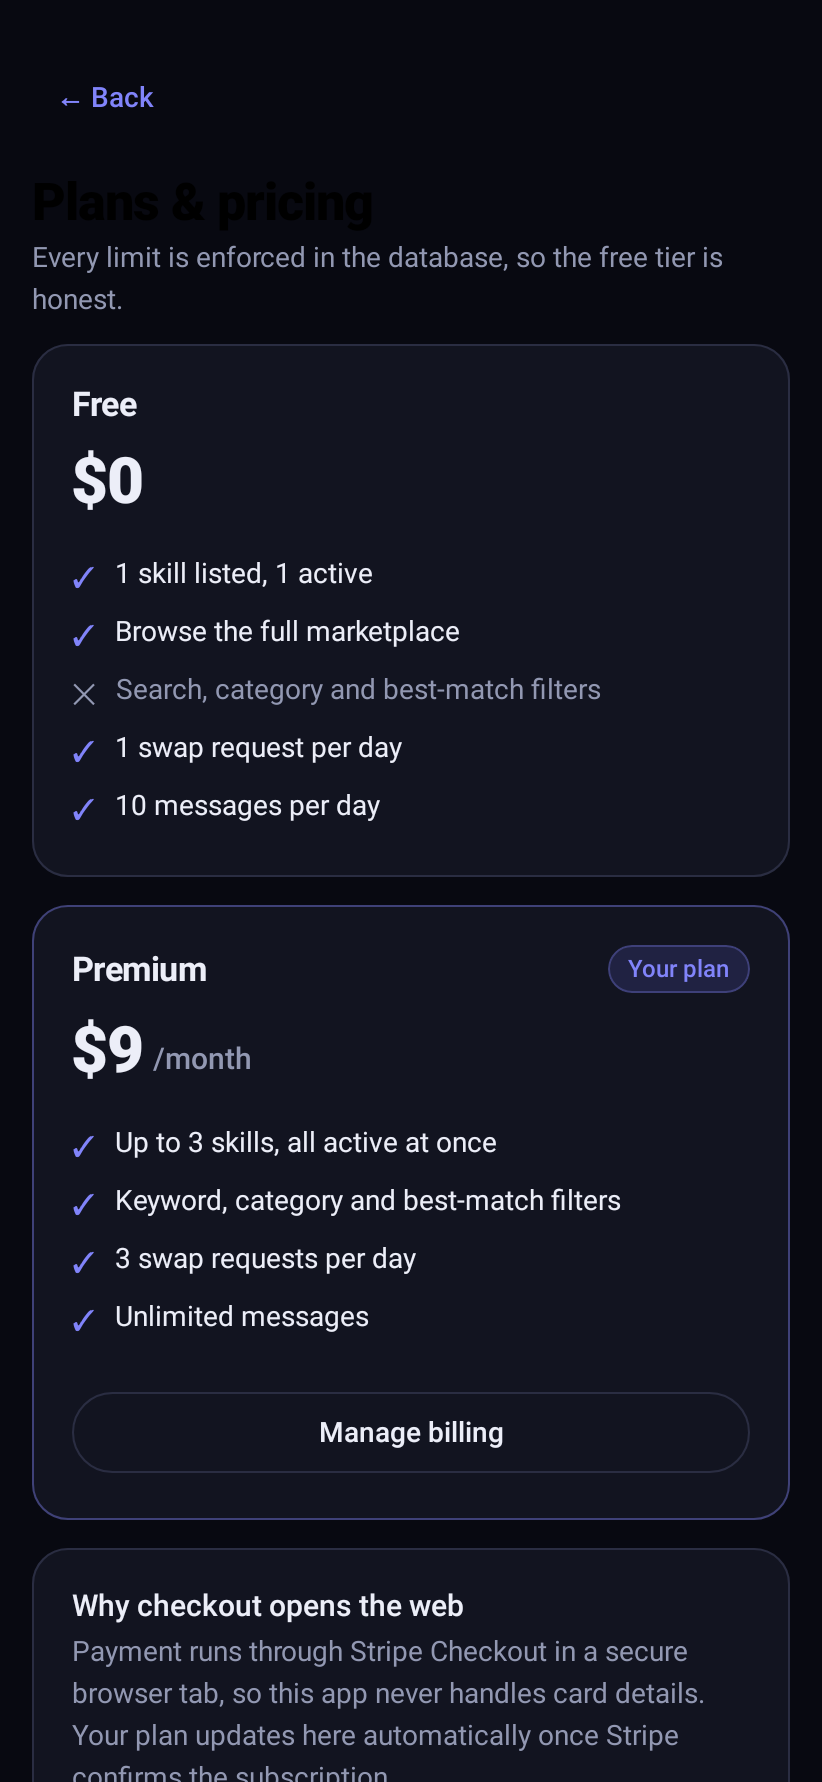
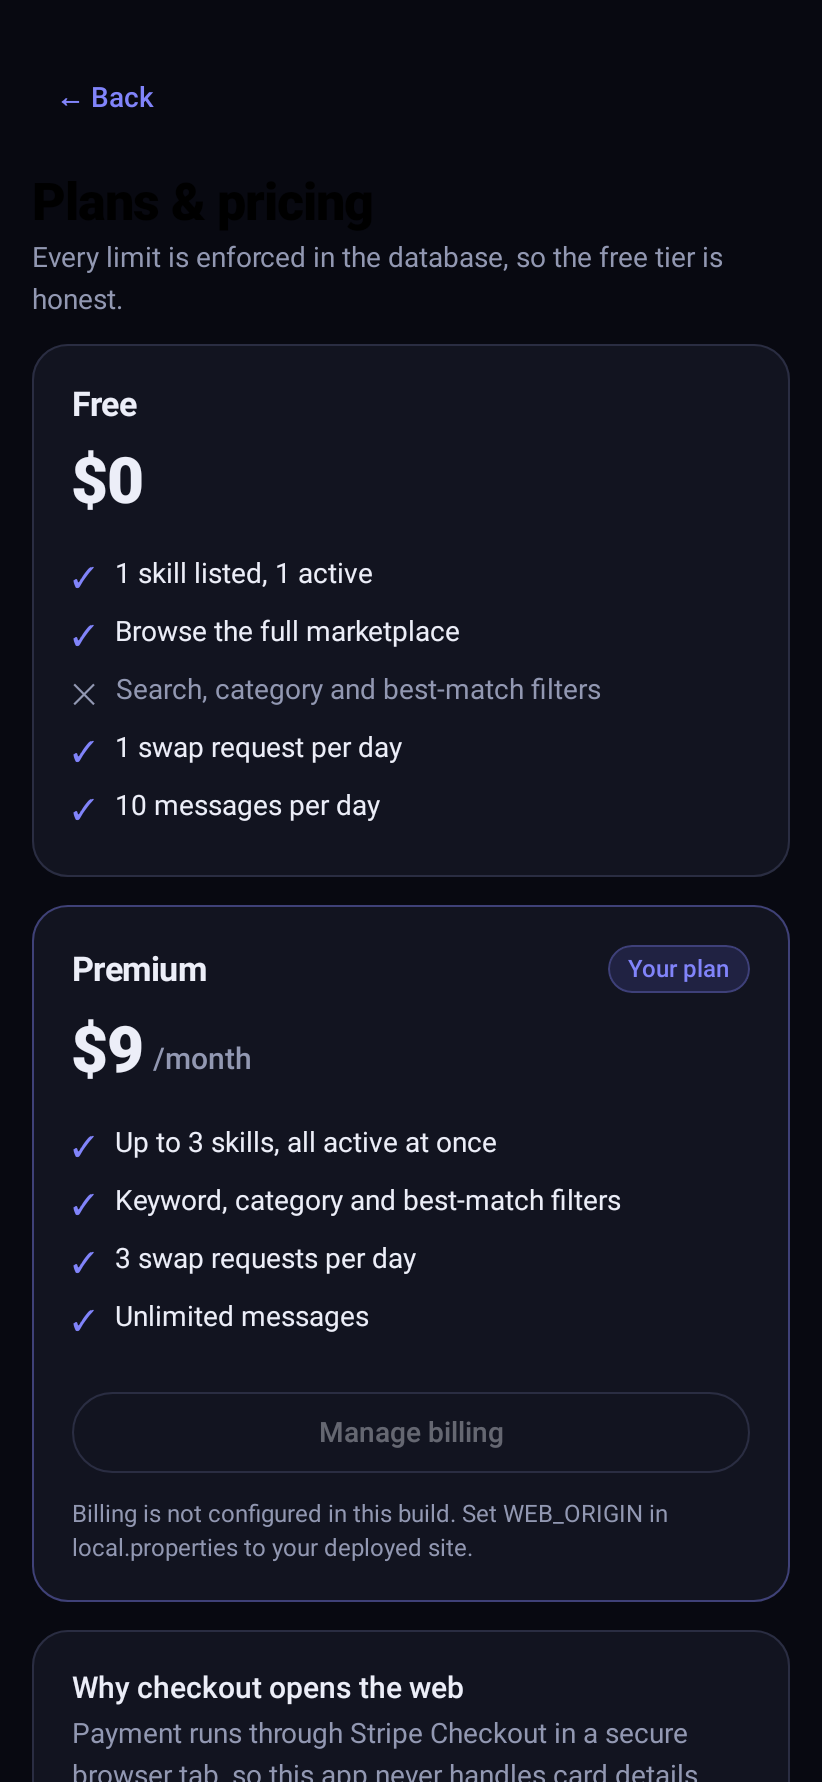
Fix Android billing pointing at a placeholder domain, and add a go-live doc
Pre-launch check found one real blocker: PricingScreen hardcoded WEB_ORIGIN to
https://skillswap.example.com, so Upgrade and Manage billing would have opened
a dead link in any shipped build.

- WEB_ORIGIN now comes from local.properties / CI via BuildConfig
- when it is blank the billing buttons are disabled and the screen explains
  why, rather than sending people to a domain that does not exist
- screenshots re-recorded to match

docs/go-live.md states plainly what has been proven by executing it (all
migrations on a clean Postgres, RLS, the plan-escalation defence, a full user
journey issued as the authenticated role, and the Stripe webhook path
simulated as the service role) and what has not been proven at all, because
there is no Docker or emulator here: Supabase Auth over HTTP, any authenticated
page rendering against live data, Realtime delivery, Stripe checkout in a
browser, and the Android app on a device.

Claude-Session: https://claude.ai/code/session_0169sZ7LFGqeepdoBCQaUnRE

Changed region(s): [[0.0912, 0.8025, 0.8516, 1.0], [0.9428, 0.8333, 0.9732, 0.9259], [0.0304, 0.8333, 0.0608, 0.9259]]

diff --git a/android/app/src/main/kotlin/com/skillswap/app/ui/screens/pricing/PricingScreen.kt b/android/app/src/main/kotlin/com/skillswap/app/ui/screens/pricing/PricingScreen.kt
@@ -13,19 +13,26 @@ import androidx.compose.ui.Modifier
 import androidx.compose.ui.graphics.toArgb
 import androidx.compose.ui.platform.LocalContext
 import androidx.compose.ui.unit.dp
+import com.skillswap.app.BuildConfig
 import com.skillswap.app.data.Profile
 import com.skillswap.app.ui.components.*
 import com.skillswap.app.ui.theme.SkillSwapTheme
 
-/** Where the hosted web app lives — Checkout and the billing portal run there. */
-private const val WEB_ORIGIN = "https://skillswap.example.com"
+/**
+ * Where the hosted web app lives — Checkout and the billing portal run there.
+ * Supplied through local.properties / CI as WEB_ORIGIN; blank means "not
+ * configured yet", and the UI says so instead of opening a dead link.
+ */
+private val WEB_ORIGIN: String get() = BuildConfig.WEB_ORIGIN
 
 @Composable
 fun PricingScreen(profile: Profile, onBack: () -> Unit) {
     val context = LocalContext.current
     val primary = MaterialTheme.colorScheme.primary.toArgb()
+    val billingConfigured = WEB_ORIGIN.isNotBlank()
 
     fun openWeb(path: String) {
+        if (!billingConfigured) return
         val intent = CustomTabsIntent.Builder()
             .setDefaultColorSchemeParams(
                 androidx.browser.customtabs.CustomTabColorSchemeParams.Builder()
@@ -94,9 +101,28 @@ fun PricingScreen(profile: Profile, onBack: () -> Unit) {
             Spacer(Modifier.height(18.dp))
 
             if (profile.isPremium) {
-                SsSecondaryButton("Manage billing", { openWeb("/profile") }, Modifier.fillMaxWidth())
+                SsSecondaryButton(
+                    "Manage billing",
+                    { openWeb("/profile") },
+                    Modifier.fillMaxWidth(),
+                    enabled = billingConfigured,
+                )
             } else {
-                SsPrimaryButton("Upgrade to Premium", { openWeb("/pricing") }, Modifier.fillMaxWidth())
+                SsPrimaryButton(
+                    "Upgrade to Premium",
+                    { openWeb("/pricing") },
+                    Modifier.fillMaxWidth(),
+                    enabled = billingConfigured,
+                )
+            }
+
+            if (!billingConfigured) {
+                Spacer(Modifier.height(10.dp))
+                Text(
+                    "Billing is not configured in this build. Set WEB_ORIGIN in local.properties to your deployed site.",
+                    style = MaterialTheme.typography.bodySmall,
+                    color = SkillSwapTheme.colors.muted,
+                )
             }
         }
 

diff --git a/docs/go-live.md b/docs/go-live.md
@@ -1,0 +1,82 @@
+# Go-live verification
+
+Read this before deploying. It separates what has actually been proven from
+what has not, so nothing is taken on trust.
+
+## Proven
+
+Verified by executing it, not by reading it.
+
+| Area | How it was proven |
+| --- | --- |
+| All 9 migrations apply to a clean Postgres 16, in order | Run from scratch locally and in CI |
+| RLS enabled on all six tables | Asserted in CI; the build fails if it is ever off |
+| A user cannot grant themselves Premium | Attempted as the `authenticated` role; rejected. Asserted in CI |
+| Full user journey at the SQL layer | Signup trigger → profile edit → list a skill → discover → swap request → accept → message → read receipt → complete → rate both ways → leaderboard → usage widget. Every statement issued as the `authenticated` role with a real JWT claim |
+| Stripe webhook path | Simulated as the service role with `auth.uid()` null: upgrade sets premium, filters and caps change immediately, cancellation returns the account to free and the free cap is enforced again |
+| Plan limits | Each cap hit and rejected with its own SQLSTATE |
+| Web build, typecheck, lint | Clean, in CI |
+| CSP, security headers, hydration | Checked in a real browser: no violations, no console errors, theme toggle works |
+| Responsive layout | 320–1536px, no horizontal overflow on any page |
+| Android build and every screen rendering | Debug and release APKs build; all 13 screens render via Robolectric |
+
+## Not proven — you must check these
+
+There is no Docker or emulator in the build environment, so nothing below
+could be executed. **None of it is known to be broken; none of it is known to
+work.**
+
+1. **Supabase Auth end to end.** Sign up, confirm a `profiles` row appears with
+   `plan='free'`, sign out, sign back in. The SQL trigger behind it is proven;
+   the HTTP round trip is not.
+2. **Any authenticated page rendering with live data.** The queries are proven
+   at the SQL layer, but no signed-in page has ever been rendered against a
+   real Supabase.
+3. **Realtime messaging.** Open one conversation in two browsers as two users
+   and confirm a message arrives without refreshing. If it does not, check that
+   Realtime is enabled for the `messages` table **in the hosted project**, not
+   just in the migration.
+4. **Stripe checkout in a browser.** Card `4242 4242 4242 4242`. Confirm the
+   badge flips to Premium and filters unlock with no manual database edit.
+5. **The Android app on a device.** It compiles and renders, but has never run.
+
+## Order to do it in
+
+```bash
+# 1. Local, with Docker running
+npx supabase start
+npx supabase db reset        # applies migrations + seeds two test users
+npm run dev
+```
+
+Seeded accounts: `mara@example.com` (free) and `luca@example.com` (premium),
+password `password123` for both.
+
+Walk items 1–4 above locally first. Only then deploy, and repeat items 1–4 on
+the deployed site — the hosted project has its own Realtime setting, its own
+auth redirect URLs, and live-mode Stripe keys, and each of those has failed for
+somebody before.
+
+## Blockers found and fixed during this pass
+
+- **Android billing pointed at a placeholder domain.** `WEB_ORIGIN` was
+  hardcoded to `https://skillswap.example.com`, so Upgrade and Manage billing
+  would have opened a dead link. It now comes from `local.properties` /
+  CI, and when it is blank the buttons are disabled with an explanation rather
+  than sending people nowhere. **Set `WEB_ORIGIN` to your real domain before
+  building a release APK.**
+
+## Required configuration
+
+| Variable | Where | Notes |
+| --- | --- | --- |
+| `NEXT_PUBLIC_SUPABASE_URL` | Vercel | Public |
+| `NEXT_PUBLIC_SUPABASE_ANON_KEY` | Vercel | Public; RLS still applies |
+| `SUPABASE_SERVICE_ROLE_KEY` | Vercel | **Secret.** Bypasses RLS; used only by the Stripe webhook |
+| `STRIPE_SECRET_KEY` | Vercel | **Secret.** Live key for production |
+| `STRIPE_PREMIUM_PRICE_ID` | Vercel | Must be a **live-mode** price id |
+| `STRIPE_WEBHOOK_SECRET` | Vercel | The deployed endpoint's secret, not the `stripe listen` one |
+| `SUPABASE_URL` / `SUPABASE_ANON_KEY` / `WEB_ORIGIN` | `android/local.properties` | Never commit |
+
+Redeploy after changing any of these — Vercel does not apply new environment
+variables to an existing build.

diff --git a/README.md b/README.md
@@ -215,6 +215,9 @@ Local development only — never run the seed against a hosted project.
 
 ## Deployment checklist
 
+Before deploying, read [`docs/go-live.md`](docs/go-live.md) — it separates what
+has been proven by execution from what still needs a human with a browser.
+
 ### Supabase (hosted project)
 
 - [ ] Create the project and copy the Project URL, anon key and service_role key.
